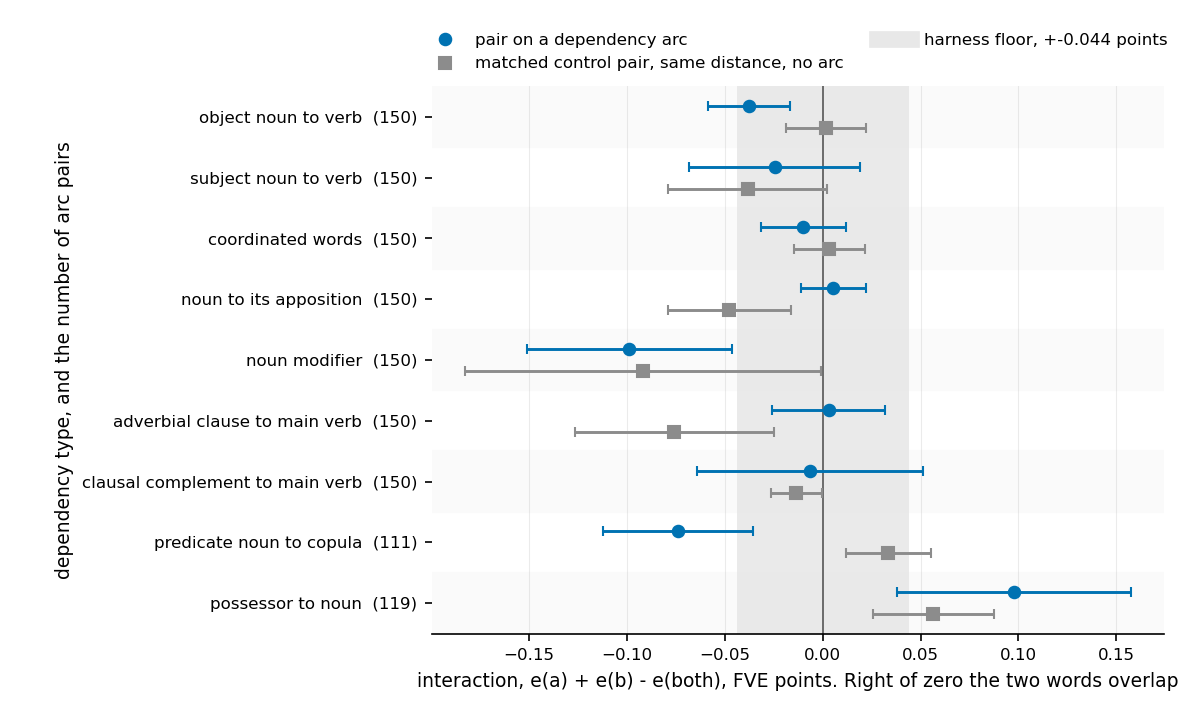
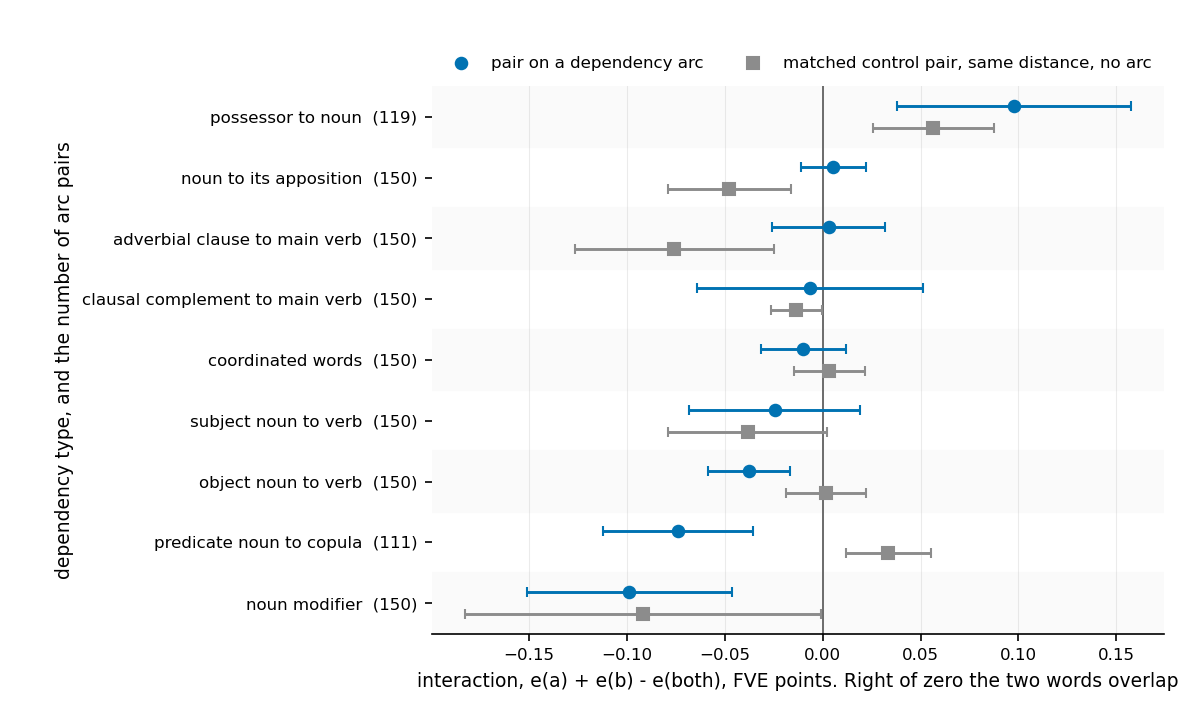
05: per-type chart ordered by arc mean, no floor band
Claude-Session: https://claude.ai/code/session_011FiNiLAhKTFPu6QpVHh2jp

diff --git a/05_dependent-pair/arc_vs_control_by_type.py b/05_dependent-pair/arc_vs_control_by_type.py
@@ -4,8 +4,8 @@
     python arc_vs_control_by_type.py
 
 Reads the PER DEP TYPE table from results/statistics.md, which pair_analysis.py
-wrote from the store, and draws it with each dependency label glossed. Writes
-results/arc_vs_control_by_type.png. No GPU.
+wrote from the store, and draws it with each dependency label glossed. Rows are ordered by the arc mean, most
+overlapping at the top. Writes results/arc_vs_control_by_type.png. No GPU.
 """
 from __future__ import annotations
 
@@ -45,9 +45,10 @@ def main():
     import matplotlib.pyplot as plt
 
     rows = read_table()
+    rows.sort(key=lambda r: r["arc"][0], reverse=True)
     fig, ax = plt.subplots(figsize=(8.0, 4.8))
     fig.subplots_adjust(left=0.36, right=0.97, top=0.88, bottom=0.12)
-    figstyle.floor(ax)
+    ax.axvline(0.0, color="#666666", lw=0.9, zorder=1.6)
     for i, r in enumerate(rows):
         if i % 2 == 0:
             ax.axhspan(i - 0.5, i + 0.5, color="#fafafa", zorder=0)
@@ -67,8 +68,7 @@ def main():
     handles = [plt.Line2D([], [], color=figstyle.SWAP, marker="o", ls="none",
                           ms=5.5, label="pair on a dependency arc"),
                plt.Line2D([], [], color=figstyle.GREY, marker="s", ls="none",
-                          ms=5.5, label="matched control pair, same distance, no arc"),
-               figstyle.floor_handle()]
+                          ms=5.5, label="matched control pair, same distance, no arc")]
     ax.legend(handles=handles, ncol=2, loc="lower center",
               bbox_to_anchor=(0.5, 1.0))
     ax.set_ylabel("dependency type, and the number of arc pairs")
